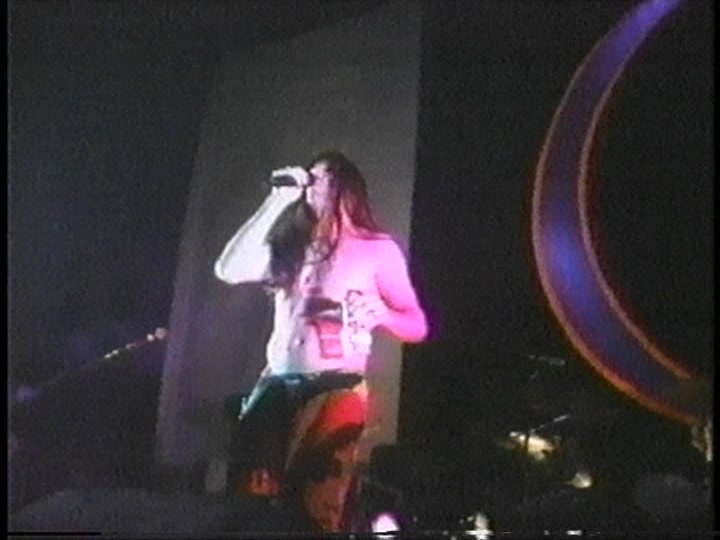
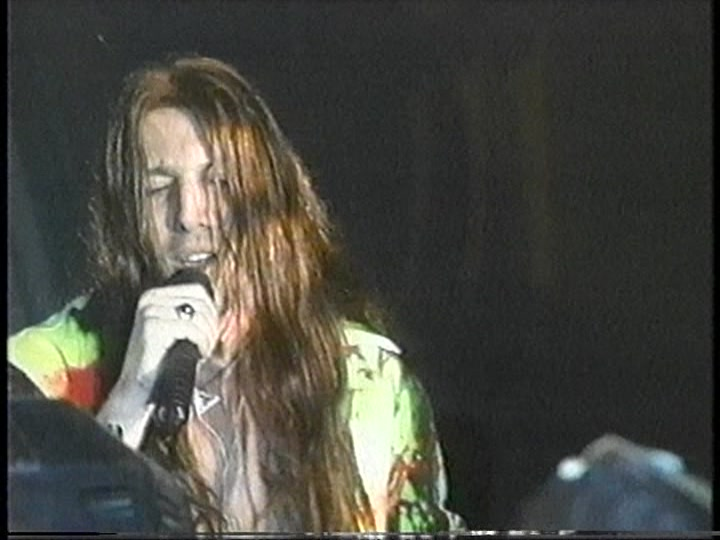
feat(images): A Perfect Circle — Phoenix 2000 gets back the owner's own hero: Maynard close up at the mic, 0:35:38.24
The frame of the owner's manual capture of 2026-08-20 (b161715f), which a batch re-capture had
replaced; found exactly in VTS_01 and re-rendered with the collection's settings, by frame number
because this disc's timestamps restart in every VOB. Note in the record's PrivateNotes.

hero_options.py scans and renders by frame number where seeking fails, finds the site's hero
(--around Label=auto) and shows a reference image (--ref); compare_copies.py (new) sets one moment
from every copy of a show side by side.

diff --git a/.claude/skills/concert-screenshots/hero_options.py b/.claude/skills/concert-screenshots/hero_options.py
@@ -77,6 +77,111 @@ def unit_for(showid, rec):
     return dict(t, src=src, kind=kind), 'planned now from ' + str(folder)
 
 
+def fps_of(unit):
+    f = str(unit.get('fps') or '30000/1001')
+    n, d = (f.split('/') + ['1'])[:2]
+    return float(n) / float(d or 1)
+
+
+def seek_works(unit, vf, out):
+    """Some discs restart their timestamps in every VOB, so -ss lands nowhere (SKILL.md §5.2): test once."""
+    p = out / '_seektest.jpg'
+    ok = shots.grab(unit['src'], 60.0, vf, p)
+    p.unlink(missing_ok=True)
+    return ok
+
+
+def nv(m):
+    m = m - m.mean(axis=-1, keepdims=True)
+    return m / (np.linalg.norm(m, axis=-1, keepdims=True) + 1e-6)
+
+
+def scan(unit, out, index_mode):
+    """The whole show at 48x36 grey, about twice a second, and the time of each row. Seek mode samples by
+    timestamp (fps=2); index mode by frame number (every K-th decoded frame), because on a disc whose
+    timestamps restart the frame number is the only coordinate (SKILL.md §5.2b). Cached for re-runs."""
+    import subprocess
+    fps = fps_of(unit)
+    K = max(1, round(fps / 2))
+    cache = out / ('scan_48x36_%s.npy' % ('idx%d' % K if index_mode else '2fps'))
+    if cache.exists():
+        F = np.load(cache)
+    else:
+        vf = ("select='not(mod(n\\,%d))',scale=48:36,format=gray" % K) if index_mode else 'fps=2,scale=48:36,format=gray'
+        args = ['ffmpeg', '-hide_banner', '-nostdin', '-v', 'error', '-i', unit['src'], '-an', '-vf', vf]
+        args += (['-vsync', '0'] if index_mode else []) + ['-f', 'rawvideo', '-']
+        raw = subprocess.run(args, capture_output=True).stdout
+        n = len(raw) // (48 * 36)
+        F = nv(np.frombuffer(raw[: n * 48 * 36], np.uint8).reshape(n, 48 * 36).astype(np.float32))
+        np.save(cache, F)
+    t_of = (lambda i: round(i * K / fps, 2)) if index_mode else (lambda i: round(i / 2.0, 2))
+    return F, t_of
+
+
+def render_index(unit, times, out):
+    """Frames by frame NUMBER in one decode: each wanted frame with 4 neighbours either side (a temporal
+    deinterlacer needs consecutive frames, SKILL.md §4.7), the windows merged, deinterlaced, scaled; then
+    each window's middle frame kept. Same settings as every pick (§4.8). Returns {t: path}."""
+    import subprocess, tempfile
+    fps = fps_of(unit)
+    want = sorted({round(t * fps) for t in times})
+    wins = []
+    for n in want:
+        a, b = max(0, n - 4), n + 4
+        if wins and a <= wins[-1][1] + 1:
+            wins[-1][1] = max(wins[-1][1], b)
+        else:
+            wins.append([a, b])
+    seq = [n for a, b in wins for n in range(a, b + 1)]
+    pos = {n: i for i, n in enumerate(seq)}
+    expr = '+'.join('between(n\\,%d\\,%d)' % (a, b) for a, b in wins)
+    head, di, tail = shots.vf_parts(unit, shots.DEFAULT_DEINT)
+    vf = ','.join(x for x in (head, "select='%s'" % expr, di, tail) if x)
+    tmp = Path(tempfile.mkdtemp(dir=str(out)))
+    shots.assert_readonly_target(tmp / 'x.jpg')
+    subprocess.run(['ffmpeg', '-hide_banner', '-nostdin', '-v', 'error', '-y', '-i', unit['src'], '-an', '-vf', vf,
+                    '-vsync', '0', '-q:v', '2', '-pix_fmt', 'yuvj420p', str(tmp / 'f_%06d.jpg')], capture_output=True)
+    got = {}
+    for t in times:
+        n = round(t * fps)
+        f = tmp / ('f_%06d.jpg' % (pos[n] + 1))
+        if f.exists():
+            p = out / ('t%s.jpg' % hms(round(n / fps, 2)).replace(':', '-'))
+            shutil.move(str(f), p)
+            got[round(n / fps, 2)] = p
+    shutil.rmtree(tmp, ignore_errors=True)
+    return got
+
+
+def locate(unit, out, index_mode, img):
+    """Where a still sits in this recording: the best scan row, then frame by frame over 2 s around it."""
+    F, t_of = scan(unit, out, index_mode)
+    v = nv(np.asarray(Image.open(img).convert('L').resize((48, 36)), dtype=np.float32).ravel()[None, :])[0]
+    c = t_of(int(np.argmax(F @ v)))
+    fps = fps_of(unit)
+    ts = [round((round(c * fps) + k) / fps, 2) for k in range(-int(fps), int(fps) + 1)]
+    if index_mode:
+        got = render_index(unit, ts, out)
+    else:
+        vf = shots.build_vf_seek(unit, shots.DEFAULT_DEINT)
+        got = {}
+        for t in ts:
+            p = out / ('t%s.jpg' % hms(t).replace(':', '-'))
+            if p.exists() or shots.grab(unit['src'], t, vf, p):
+                got[t] = p
+    def vec(f):
+        x = np.asarray(Image.open(f).convert('L').resize((96, 72)), dtype=float).ravel()
+        x -= x.mean()
+        return x / (np.linalg.norm(x) + 1e-6)
+    ref = vec(img)
+    best = max(got, key=lambda t: float(ref @ vec(got[t])))
+    for t, p in got.items():
+        if t != best:
+            p.unlink(missing_ok=True)
+    print('located the current hero at %s (match %.3f)' % (hms(best), float(ref @ vec(got[best]))))
+    return best
+
+
 def similar_group(unit, rec, a, groups):
     """Moments across the whole show that look like the hero: the show decoded twice a second at 48x36
     grey, each frame scored by its best normalised correlation with the templates (the current hero,
@@ -90,19 +195,8 @@ def similar_group(unit, rec, a, groups):
         if not f.exists():
             raise SystemExit('--like %s: no rendered frame %s' % (t, f.name))
         temps.append(f)
-    def nv(m):
-        m = m - m.mean(axis=-1, keepdims=True)
-        return m / (np.linalg.norm(m, axis=-1, keepdims=True) + 1e-6)
     T = nv(np.stack([np.asarray(Image.open(t).convert('L').resize((48, 36)), dtype=np.float32).ravel() for t in temps]))
-    cache = VS / 'reports' / ('hero-' + a.showid) / 'scan_48x36_2fps.npy'   # the whole-show decode, kept for re-runs
-    if cache.exists():
-        F = np.load(cache)
-    else:
-        raw = subprocess.run(['ffmpeg', '-hide_banner', '-nostdin', '-v', 'error', '-i', unit['src'], '-an', '-vf',
-                              'fps=2,scale=48:36,format=gray', '-f', 'rawvideo', '-'], capture_output=True).stdout
-        n = len(raw) // (48 * 36)
-        F = nv(np.frombuffer(raw[: n * 48 * 36], np.uint8).reshape(n, 48 * 36).astype(np.float32))
-        np.save(cache, F)
+    F, t_of = scan(unit, VS / 'reports' / ('hero-' + a.showid), a.index_mode)
     n = len(F)
     score = (F @ T.T).max(axis=1)
     lo, hi = int(n * 0.03), int(n * 0.97)                      # not the opening card or the credits
@@ -112,14 +206,14 @@ def similar_group(unit, rec, a, groups):
     for i in np.argsort(-score):
         if not lo <= i < hi:
             continue
-        t = round(i / 2.0, 2)
+        t = t_of(i)
         if any(abs(t - b) <= 3 for b in bad):
             continue
         if all(abs(t - x) >= a.similar_gap for x in picks + taken):
             picks.append(t)
         if len(picks) >= a.similar:
             break
-    print('similar: %d frames scanned, %d moments, scores %.2f-%.2f' % (n, len(picks), score[[int(t * 2) for t in picks]].min(), score[[int(t * 2) for t in picks]].max()))
+    print('similar: %d frames scanned, %d moments' % (n, len(picks)))
     return ('More like the hero, across the show', '%d moments that look most like the current hero%s, at least %gs apart, in show order'
             % (len(picks), ' and the other copies\' heroes' if len(temps) > 1 else '', a.similar_gap), None, sorted(picks))
 
@@ -140,6 +234,7 @@ def main():
     ap.add_argument('--twin-span', type=float, default=2)
     ap.add_argument('--twin-step', type=float, default=0.33)
     ap.add_argument('--match')
+    ap.add_argument('--ref', help='LABEL=PATH: an image (e.g. an old hero from git) shown beside the first --around group')
     ap.add_argument('--similar', type=int, default=0,
                     help='also find N moments across the whole show that look like the current hero (and the twins\' heroes)')
     ap.add_argument('--similar-gap', type=float, default=15, help='seconds between those moments')
@@ -159,14 +254,23 @@ def main():
     out = VS / 'reports' / ('hero-' + a.showid)
     shots.assert_readonly_target(out / 'x.jpg')
     out.mkdir(parents=True, exist_ok=True)
+    a.index_mode = unit.get('decode') == 'single' or not seek_works(unit, vf, out)
+    if a.index_mode:
+        print('seeking fails on this disc: frames are found and rendered by frame number (SKILL.md §5.2b)')
+    cur = REPO / 'public/images' / ('%s_01.jpg' % rec['ChecksumSHA1'])
 
     groups = []   # (title, note, reference image or None, [times]); the scrubs follow the twins' moments
     arounds = []
+    ref_name, ref_caption = None, ''
+    if a.ref:
+        ref_caption, ref_path = a.ref.split('=', 1)
+        ref_name = 'ref_custom.jpg'
+        shutil.copyfile(ref_path, out / ref_name)
     for spec in a.around:
         label, ts = spec.split('=', 1)
-        c = secs(ts)
+        c = locate(unit, out, a.index_mode, cur) if ts.strip() == 'auto' else secs(ts)
         n = int(round(a.span / a.step))
-        arounds.append((label, 'Every %gs, %gs either side of %s' % (a.step, a.span, hms(c)), None,
+        arounds.append((label, 'Every %gs, %gs either side of %s' % (a.step, a.span, hms(c)), ref_name if not arounds else None,
                         [round(c + i * a.step, 2) for i in range(-n, n + 1)]))
     if a.twin and not a.match:
         raise SystemExit('--twin needs --match: the twin_match report made from this recording')
@@ -190,6 +294,9 @@ def main():
         groups.append(similar_group(unit, rec, a, groups))
     if a.moment:
         groups.append((a.moment_title, '%d moments, in show order' % len(a.moment), None, sorted(round(secs(m), 2) for m in a.moment)))
+    if a.index_mode:   # every time snaps to a whole frame, so a page time and its file always agree
+        fps = fps_of(unit)
+        groups = [(g[0], g[1], g[2], [round(round(t * fps) / fps, 2) for t in g[3]]) for g in groups]
     jobs = sorted({t for g in groups for t in g[3]})
     def render(t):
         p = out / ('t%s.jpg' % hms(t).replace(':', '-'))
@@ -197,12 +304,21 @@ def main():
             return t, None, 'grab failed'
         ok, why = shots.verify(p, unit)
         return t, p if ok else None, why
-    with ThreadPoolExecutor(4) as ex:
-        res = {t: (p, why) for t, p, why in ex.map(render, jobs)}
+    if a.index_mode:
+        have = {t: out / ('t%s.jpg' % hms(t).replace(':', '-')) for t in jobs}
+        missing = [t for t, p in have.items() if not p.exists()]
+        if missing:
+            render_index(unit, missing, out)
+        res = {}
+        for t, p in have.items():
+            ok, why = shots.verify(p, unit) if p.exists() else (False, 'not rendered')
+            res[t] = (p if ok else None, why)
+    else:
+        with ThreadPoolExecutor(4) as ex:
+            res = {t: (p, why) for t, p, why in ex.map(render, jobs)}
     bad = [(t, w) for t, (p, w) in res.items() if not p]
     print('rendered %d, failed %d' % (len(jobs) - len(bad), len(bad)), bad[:5])
 
-    cur = REPO / 'public/images' / ('%s_01.jpg' % rec['ChecksumSHA1'])
     shutil.copyfile(cur, out / 'current_01.jpg')
     sharp = {t: sharpness(p) for t, (p, _) in res.items() if p}
 
@@ -229,8 +345,9 @@ def main():
                 % (hms(t), p.name, out.name, p.name, out.name, p.name, hms(t), sharp[t], badge))
     sections = ''
     for title, note, ref, times in groups:
-        refhtml = ('<figure class="ref"><img src="%s/%s" alt=""><figcaption>Their hero now (another copy, for comparison)</figcaption></figure>'
-                   % (out.name, ref)) if ref else ''
+        cap = html.escape(ref_caption) if ref == ref_name else 'Their hero now (another copy, for comparison)'
+        refhtml = ('<figure class="ref"><img src="%s/%s" alt=""><figcaption>%s</figcaption></figure>'
+                   % (out.name, ref, cap)) if ref else ''
         sections += ('<section><h2>%s</h2><p class="note">%s</p><div class="row">%s<div class="grid">%s</div></div></section>'
                      % (html.escape(title), html.escape(note), refhtml, ''.join(card(t) for t in times)))
     name = '%s, %s, %s' % (rec['Artist'], rec.get('VenueName') or '', rec.get('ShowDate') or '')

diff --git a/.claude/skills/concert-screenshots/compare_copies.py b/.claude/skills/concert-screenshots/compare_copies.py
@@ -1,0 +1,138 @@
+#!/usr/bin/env python3
+"""The same moment from several copies of one show, side by side, so the owner can see which looks best.
+
+    python3 compare_copies.py --ref ccd7ed3c2fa4 \
+        --copy 9591d1560110=reports/twins/<slug>/match.json --copy 0ea36fe37b0e=reports/twins/<slug>/match.json
+
+--ref is the record whose site hero (slot 1) is the moment; each --copy is another record of the show
+with the twin_match.py report made FROM that copy's source (where --ref's stills were found in it).
+Each copy's frame is rendered as picks are (shots.grab, shots.build_vf_seek, its own planned shape,
+bars kept), refined to the frame that best matches the ref, then shown three ways: as the site would
+store it, the picture alone at one common size, and a 2x crop of the same region. Writes only to
+reports/compare-<ref>/ and reports/compare-<ref>.html.
+"""
+import argparse, html, json, sys
+from concurrent.futures import ThreadPoolExecutor
+from pathlib import Path
+
+import numpy as np
+from PIL import Image
+
+VS = Path.home() / 'VaultShots'
+REPO = Path.home() / 'Desktop/Projects/the-vault'
+sys.path.insert(0, str(VS))
+import shots  # noqa: E402
+import hero_options as ho  # noqa: E402
+
+
+def picture_box(im):
+    """The picture inside any pillarbox or letterbox: columns and rows whose AVERAGE is brighter than the
+    bars. Averages, not maxima, so a channel logo sitting in a bar (Palladia's) doesn't count as picture."""
+    a = np.asarray(im.convert('L'), dtype=float)
+    cols = np.where(a.mean(axis=0) > 20)[0]
+    rows = np.where(a.mean(axis=1) > 20)[0]
+    return (int(cols[0]), int(rows[0]), int(cols[-1]) + 1, int(rows[-1]) + 1) if len(cols) and len(rows) else (0, 0, im.width, im.height)
+
+
+def vec(im, box=None):
+    im = im.crop(box) if box else im
+    v = np.asarray(im.convert('L').resize((96, 72)), dtype=float).ravel()
+    v -= v.mean()
+    return v / (np.linalg.norm(v) + 1e-6)
+
+
+def sharp(im):
+    a = np.asarray(im.convert('L'), dtype=float)
+    lap = a[:-2, 1:-1] + a[2:, 1:-1] + a[1:-1, :-2] + a[1:-1, 2:] - 4 * a[1:-1, 1:-1]
+    return float(lap.var())
+
+
+def main():
+    ap = argparse.ArgumentParser()
+    ap.add_argument('--ref', required=True)
+    ap.add_argument('--copy', action='append', default=[])
+    ap.add_argument('--window', type=float, default=1.2, help='seconds either side of the twin match to search for the best frame')
+    ap.add_argument('--step', type=float, default=0.04)
+    ap.add_argument('--zoom', default='0.30,0.05,0.80,0.70', help='region to enlarge, as fractions of the picture: x0,y0,x1,y1')
+    a = ap.parse_args()
+    shows = {s['ShowID']: s for s in json.load(open(REPO / 'public/shows.json', encoding='utf-8'))}
+    out = VS / 'reports' / ('compare-' + a.ref)
+    shots.assert_readonly_target(out / 'x.jpg')
+    out.mkdir(parents=True, exist_ok=True)
+    ref = shows[a.ref]
+    ref_img = Image.open(REPO / 'public/images' / ('%s_01.jpg' % ref['ChecksumSHA1'])).convert('RGB')
+    ref_img.save(out / 'ref.jpg', quality=95)
+    rv = vec(ref_img, picture_box(ref_img))
+    entries = [dict(id=a.ref, rec=ref, img=ref_img, file='ref.jpg', note='On the site now (slot 1)')]
+    for spec in a.copy:
+        cid, match = spec.split('=', 1)
+        m = next(x for x in json.load(open(VS / match)) if x['twin'] == a.ref and x['slot'] == 1)
+        rec = shows[cid]
+        unit, _ = ho.unit_for(cid, rec)
+        vf = shots.build_vf_seek(unit, shots.DEFAULT_DEINT)
+        n = int(round(a.window / a.step))
+        ts = [round(m['t'] + i * a.step, 3) for i in range(-n, n + 1)]
+        def r(t):
+            p = out / ('%s_%.3f.jpg' % (cid, t))
+            if not p.exists():
+                shots.grab(unit['src'], t, vf, p)
+            im = Image.open(p).convert('RGB')
+            return float(rv @ vec(im, picture_box(im))), t, p
+        with ThreadPoolExecutor(4) as ex:
+            score, t, p = max(ex.map(r, ts))
+        best = out / ('%s_best.jpg' % cid)
+        Image.open(p).save(best, quality=95)
+        entries.append(dict(id=cid, rec=rec, img=Image.open(best).convert('RGB'), file=best.name,
+                            note=('Same moment at %s (match %.3f)' % (ho.hms(t), score)) if score >= 0.8 else
+                                 ('Nearest frame found, %s, a moment off (match %.3f): seeking in this file is not frame-exact' % (ho.hms(t), score))))
+    zx0, zy0, zx1, zy1 = (float(x) for x in a.zoom.split(','))
+    common = (960, 720)
+    rows = []
+    for e in entries:
+        box = picture_box(e['img'])
+        pic = e['img'].crop(box)
+        eq = pic.resize(common, Image.LANCZOS)
+        eq.save(out / ('%s_equal.jpg' % e['id']), quality=95)
+        w, h = pic.size
+        z = pic.crop((int(w * zx0), int(h * zy0), int(w * zx1), int(h * zy1)))
+        z = z.resize((int(common[0] * (zx1 - zx0)) * 2, int(common[1] * (zy1 - zy0)) * 2), Image.LANCZOS)
+        z.save(out / ('%s_zoom.jpg' % e['id']), quality=95)
+        r = e['rec']
+        rows.append(dict(e, box=box, pic=pic.size, stored=e['img'].size, sharp_equal=sharp(eq),
+                         spec='%s×%s %s · %s · %s' % (r.get('Width'), r.get('Height'), r.get('AspectRatio') or '', r.get('TotalSizeHuman') or '',
+                                                     (r.get('VideoCodec') or r.get('Container') or ''))))
+    best_sharp = max(x['sharp_equal'] for x in rows)
+    cards = ''.join('''<section class="card"><h2>{name}</h2><p class="meta">{note}<br>{spec}<br>Stored still {sw}×{sh}; picture {pw}×{ph}{bars} · detail at equal size: <b>{sh_eq:.0f}</b>{top}</p>
+<figure><figcaption>As the site would store it</figcaption><a href="{d}/{file}" target="_blank"><img src="{d}/{file}" alt=""></a></figure>
+<figure><figcaption>Picture only, all at 960×720</figcaption><a href="{d}/{id}_equal.jpg" target="_blank"><img src="{d}/{id}_equal.jpg" alt=""></a></figure>
+<figure><figcaption>Zoomed: the same region, 2×</figcaption><a href="{d}/{id}_zoom.jpg" target="_blank"><img src="{d}/{id}_zoom.jpg" alt=""></a></figure></section>'''.format(
+        name=html.escape('%s — %s' % (x['id'], x['rec'].get('FolderName') or '')), note=html.escape(x['note']), spec=html.escape(x['spec']),
+        sw=x['stored'][0], sh=x['stored'][1], pw=x['pic'][0], ph=x['pic'][1],
+        bars=' (bars at the sides kept)' if x['pic'][0] < x['stored'][0] - 8 else '',
+        sh_eq=x['sharp_equal'], top=' (most detail)' if x['sharp_equal'] == best_sharp else '', d=out.name, file=x['file'], id=x['id']) for x in rows)
+    doc = PAGE.replace('{TITLE}', html.escape('%s, %s, %s' % (ref['Artist'], ref.get('EventOrFestival') or ref.get('VenueName') or '', ref.get('ShowDate') or ''))) \
+              .replace('{CARDS}', cards)
+    (VS / 'reports' / ('compare-%s.html' % a.ref)).write_text(doc, encoding='utf-8')
+    for x in rows:
+        print('%s  %s  stored %s picture %s  detail %.0f' % (x['id'], x['note'], x['stored'], x['pic'], x['sharp_equal']))
+    print(VS / 'reports' / ('compare-%s.html' % a.ref))
+
+
+PAGE = r'''<!doctype html><html lang="en"><head><meta charset="utf-8"><meta name="viewport" content="width=device-width, initial-scale=1">
+<title>Copy Comparison</title><style>
+:root{--bg:#f6f6f4;--panel:#fff;--ink:#16161a;--ink-2:#55555f;--ink-3:#8a8a94;--line:#e6e6e2;color-scheme:light}
+@media (prefers-color-scheme:dark){:root:not([data-theme="light"]){--bg:#0f0f11;--panel:#17171a;--ink:#ededf0;--ink-2:#a9a9b3;--ink-3:#73737d;--line:#26262b;color-scheme:dark}}
+*{box-sizing:border-box} body{margin:0;background:var(--bg);color:var(--ink);font:14px/1.5 ui-sans-serif,-apple-system,BlinkMacSystemFont,"Segoe UI",Inter,Roboto,sans-serif}
+.wrap{max-width:1500px;margin:0 auto;padding:22px 16px 60px} h1{font-size:21px;margin:0} .lede{color:var(--ink-2);margin:4px 0 14px}
+.card{background:var(--panel);border:1px solid var(--line);border-radius:12px;padding:14px;margin-top:14px;display:grid;grid-template-columns:repeat(3,minmax(0,1fr));gap:12px}
+.card h2,.card .meta{grid-column:1/-1;margin:0} .card h2{font-size:15px} .meta{color:var(--ink-2);font-size:13px}
+figure{margin:0} figure img{width:100%;display:block;border-radius:6px} figcaption{font-size:12px;color:var(--ink-3);margin-bottom:4px}
+@media (max-width:900px){.card{grid-template-columns:1fr}}
+</style></head><body><div class="wrap">
+<h1>Same moment, every copy: {TITLE}</h1>
+<p class="lede">Each copy's frame at the moment of the site's hero, rendered the way the site's stills are. The middle column puts every picture at the same size so they compare fairly; the right column enlarges the same region 2×. "Detail" is a sharpness measure at equal size: higher is crisper (it can also rise with noise, so trust your eyes).</p>
+{CARDS}
+</div></body></html>'''
+
+if __name__ == '__main__':
+    main()

diff --git a/.claude/skills/concert-screenshots/SKILL.md b/.claude/skills/concert-screenshots/SKILL.md
@@ -1522,7 +1522,14 @@ python3 plan_files.py --label L --files f.json    # loose files NOT on Live Musi
 python3 twin_match.py --src F --twins ID [ID ...] # is F a copy of a held show? finds each twin still in F (§13b)
 python3 hero_options.py --showid ID --match reports/twins/<slug>/match.json --around "Label=HH:MM:SS" [--twin ID ...]
                                                   # one show's hero re-pick: frames around chosen moments (and each twin's hero
-                                                  # moment) rendered as picks are, on reports/hero-<ID>.html for the owner
+                                                  # moment) rendered as picks are, on reports/hero-<ID>.html for the owner.
+                                                  # --similar N finds look-alikes across the show (--like adds confirmed frames
+                                                  # as templates, --exclude drops misses, --moment lists hand-checked ones);
+                                                  # "--around Label=auto" finds the site's hero; --ref shows an image (an old
+                                                  # hero from git) beside it. Where seeking fails (timestamps restart per VOB)
+                                                  # it scans and renders by frame number (§5.2b) on its own.
+python3 compare_copies.py --ref ID --copy ID2=reports/twins/<slug>/match.json  # one moment from every copy of a show,
+                                                  # side by side at equal size and zoomed, for choosing which copy to feature
 ./showpicks.sh "<Artist>"                     # materialise, verify links, open for the owner
 python3 hero_gate.py                          # refuse promotion until every hero is verified
 python3 aspect_ab.py                          # 4:3-flagged, bar-free, post-2000 sources at both shapes
